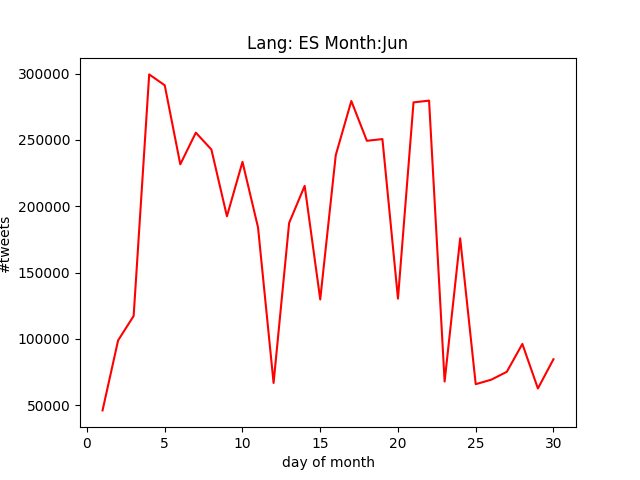
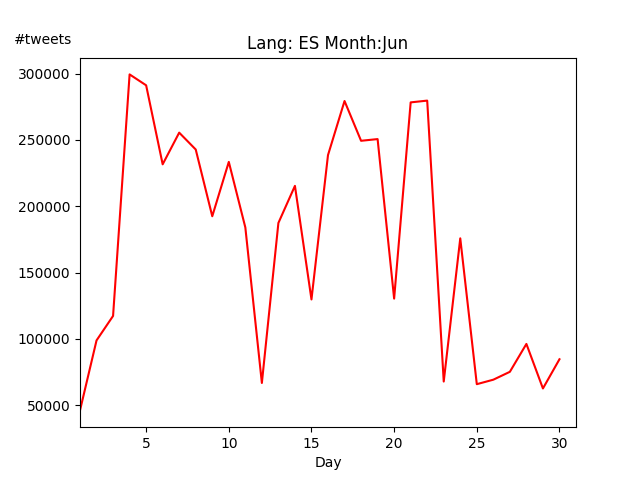
modifications on monthly graphics

diff --git a/Proj2/users_graphics.py b/Proj2/users_graphics.py
@@ -18,11 +18,13 @@ def graphics_users_tweets(file):
 	ax1 = fig.add_subplot(111)
 
 	ax1.set_title("Lang: "+string.upper(file[17:19])+" Month:"+file[-7:-4])
-	ax1.set_xlabel("day of month")
-	ax1.set_ylabel("#tweets")
+	ax1.set_xlabel("Day")
+	ax1.set_ylabel("#tweets", rotation=360)
 
 	ax1.plot(x, y, c="r")
-
+	ax1.yaxis.set_label_coords(-0.075,1.030)
+	plt.xlim(1, 31)
+	# plt.ylim(0, 1000000)
 	# plt.show()
 	# plt.draw()
 
